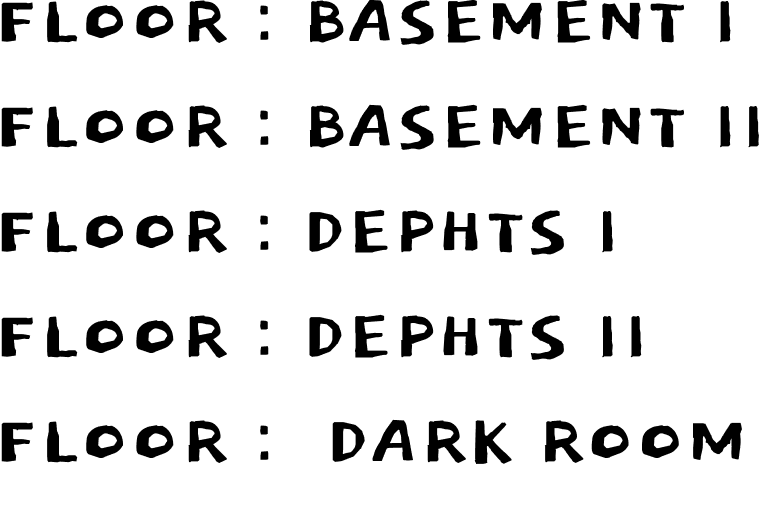
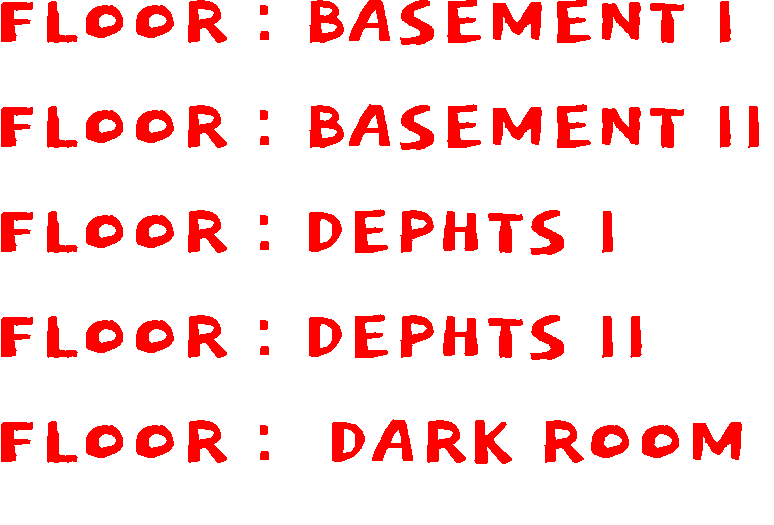
(|) change color and height of the floor in menu

diff --git a/sources/draw_sprites.c b/sources/draw_sprites.c
@@ -25,17 +25,17 @@ void reduce_draw_spause(window *wndw, options *sprt, rooms *ro)
     sfIntRect last = {0, 417, 774, 47};
     if (ro->lvl == 2) {
         sfSprite_setTextureRect(sprt->lvl_m_sprt, third);
-        sfSprite_setPosition(sprt->lvl_m_sprt, (sfVector2f) {845, 460});
+        sfSprite_setPosition(sprt->lvl_m_sprt, (sfVector2f) {845, 430});
         sfRenderWindow_drawSprite(wndw->window, sprt->lvl_m_sprt, NULL);
     }
     if (ro->lvl == 3) {
         sfSprite_setTextureRect(sprt->lvl_m_sprt, four);
-        sfSprite_setPosition(sprt->lvl_m_sprt, (sfVector2f) {830, 460});
+        sfSprite_setPosition(sprt->lvl_m_sprt, (sfVector2f) {830, 430});
         sfRenderWindow_drawSprite(wndw->window, sprt->lvl_m_sprt, NULL);
     }
     if (ro->lvl == 4) {
         sfSprite_setTextureRect(sprt->lvl_m_sprt, last);
-        sfSprite_setPosition(sprt->lvl_m_sprt, (sfVector2f) {790, 460});
+        sfSprite_setPosition(sprt->lvl_m_sprt, (sfVector2f) {790, 430});
         sfRenderWindow_drawSprite(wndw->window, sprt->lvl_m_sprt, NULL);
     }
 }
@@ -49,12 +49,12 @@ void draw_spause(window *wndw, options *sprt, rooms *ro)
         sfRenderWindow_drawSprite(wndw->window, sprt->invent.sprites[i], NULL);
     if (ro->lvl == 0) {
         sfSprite_setTextureRect(sprt->lvl_m_sprt, first);
-        sfSprite_setPosition(sprt->lvl_m_sprt, (sfVector2f) {800, 460});
+        sfSprite_setPosition(sprt->lvl_m_sprt, (sfVector2f) {800, 430});
         sfRenderWindow_drawSprite(wndw->window, sprt->lvl_m_sprt, NULL);
     }
     if (ro->lvl == 1) {
         sfSprite_setTextureRect(sprt->lvl_m_sprt, sec);
-        sfSprite_setPosition(sprt->lvl_m_sprt, (sfVector2f) {785, 460});
+        sfSprite_setPosition(sprt->lvl_m_sprt, (sfVector2f) {785, 430});
         sfRenderWindow_drawSprite(wndw->window, sprt->lvl_m_sprt, NULL);
     }
     is_touched_button(wndw, sprt);
